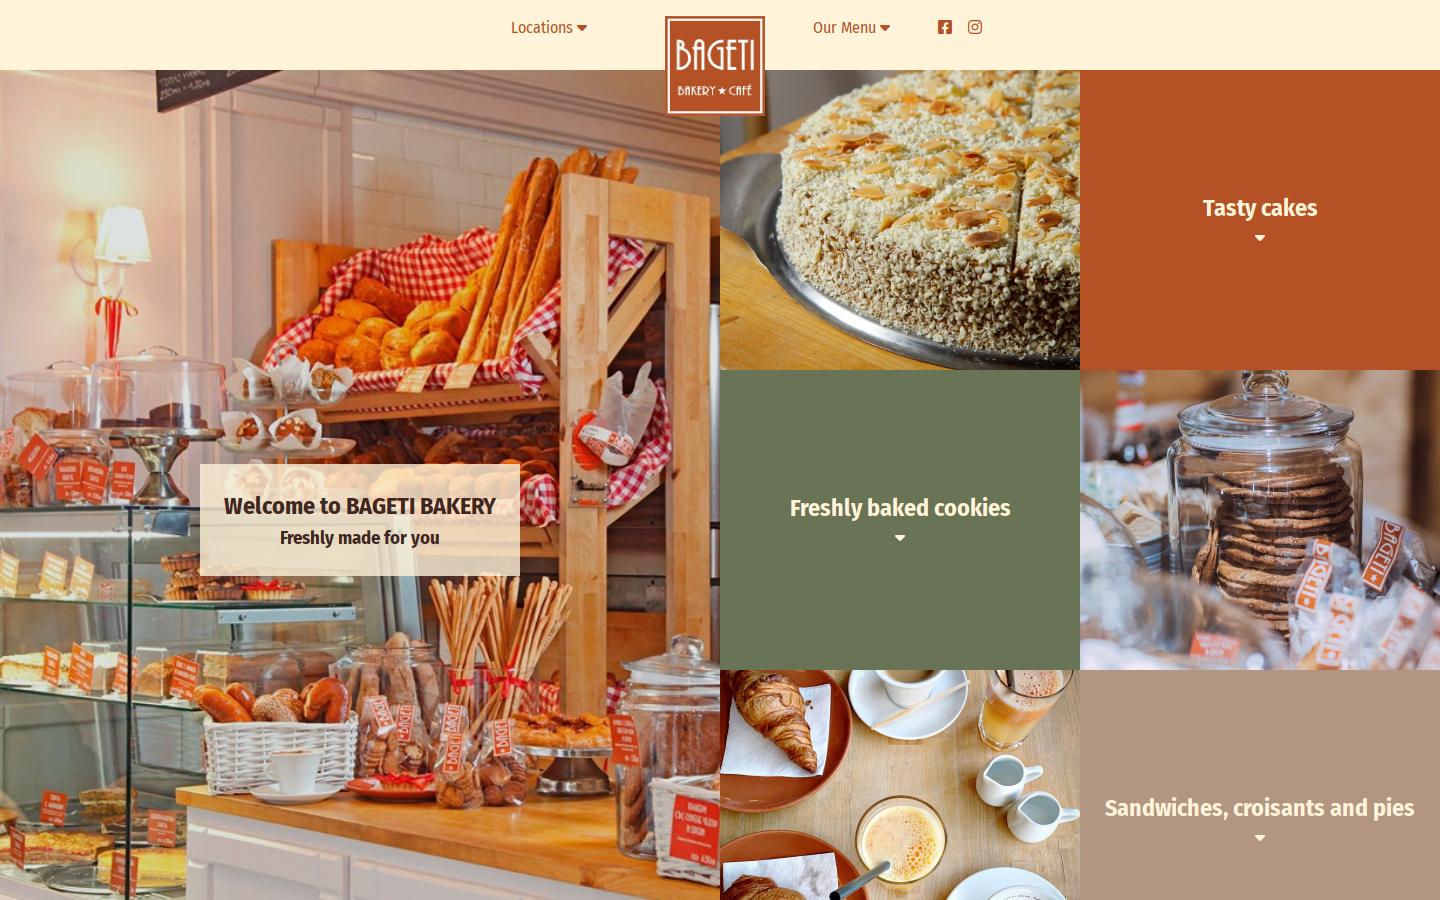
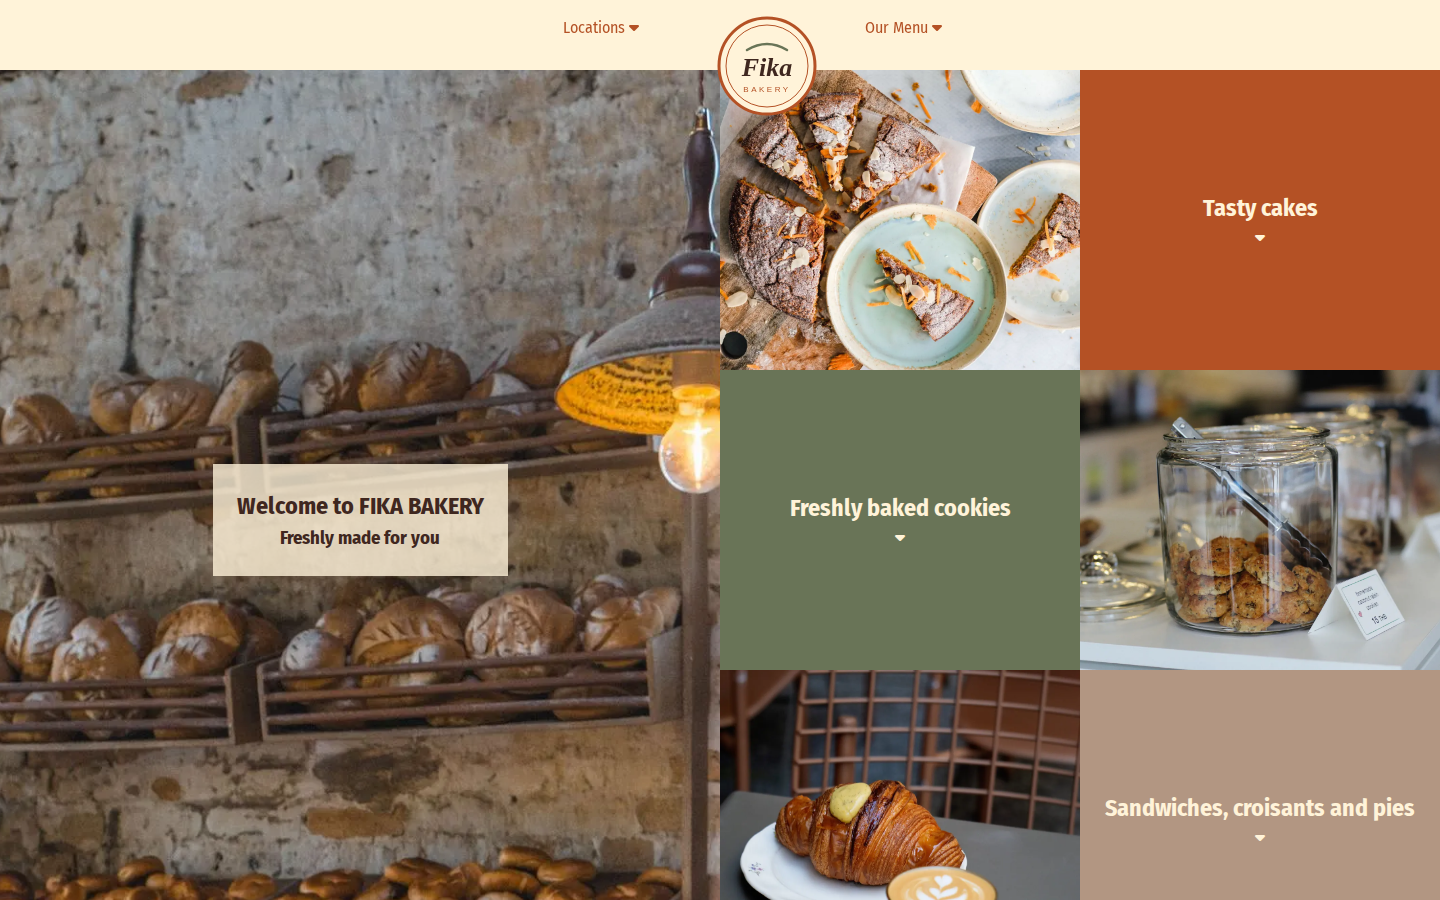
Replace bakery photos with Pexels stock photos
Swap all photos from the real bakery for free-licence Pexels photos,
resized and converted to WebP, and retake the README screenshot.

diff --git a/css/style.css b/css/style.css
@@ -88,7 +88,7 @@ header {
 
 .first {
     grid-area: first;
-    background-image: url('../images/panoramic-bageti.jpg');
+    background-image: url('../images/hero.webp');
     height: 100vh;
     background-position: center; 
   background-repeat: no-repeat; 
@@ -108,7 +108,7 @@ header {
 }
  .sandwiches-img {
     grid-area: sandwiches-img;
-    background-image: url('../images/fika.jpg');
+    background-image: url('../images/tile-croissant.webp');
     background-position: center; 
   background-repeat: no-repeat; 
   background-size: cover;
@@ -120,7 +120,7 @@ header {
 }
  .cookies-img {
     grid-area: cookies-img;
-    background-image: url('../images/cookies.jpg');
+    background-image: url('../images/tile-cookies.webp');
     background-position: center; 
   background-repeat: no-repeat; 
   background-size: cover;
@@ -132,7 +132,7 @@ header {
 }
  .cakes-img {
     grid-area: cakes-img;
-    background-image: url('../images/almond-cake.jpg');
+    background-image: url('../images/tile-cake.webp');
     background-position: center; 
   background-repeat: no-repeat; 
   background-size: cover;
@@ -140,7 +140,7 @@ header {
 
 .bread-img {
     grid-area: bread-img;
-    background-image: url('../images/small-bagets.jpg');
+    background-image: url('../images/tile-baguettes.webp');
     background-position: center; 
     background-repeat: no-repeat; 
     background-size: cover;
@@ -153,7 +153,7 @@ header {
 
 .coffee-img {
     grid-area: coffee-img;
-    background-image: url('../images/tart-coffee.jpg');
+    background-image: url('../images/tile-tart-coffee.webp');
     background-position: center; 
     background-repeat: no-repeat; 
     background-size: cover;
@@ -161,7 +161,7 @@ header {
 
 .banana-img {
     grid-area: banana-img;
-    background-image: url('../images/banana-muffins.jpg');
+    background-image: url('../images/tile-muffins.webp');
     background-position: center; 
     background-repeat: no-repeat; 
     background-size: cover;
@@ -225,26 +225,26 @@ header {
     width: 50%;
 }
 .menu-cakes-img-container {
-    background-image: url('../images/tart.jpg');
+    background-image: url('../images/menu-tarts.webp');
     background-position: center; 
     background-repeat: no-repeat; 
     background-size: cover;
 }
 
 .menu-sweet-treats-img-container {
-    background-image: url('../images/brownies.jpg');
+    background-image: url('../images/menu-brownies.webp');
     background-position: center; 
     background-repeat: no-repeat; 
     background-size: cover;
 }
 .menu-savory-treats-img-container {
-    background-image: url('../images/salmon-sandwich.jpg');
+    background-image: url('../images/menu-salmon-sandwich.webp');
     background-position: center; 
     background-repeat: no-repeat; 
     background-size: cover;
 }
 .menu-breads-img-container {
-    background-image: url('../images/bread.jpg');
+    background-image: url('../images/menu-sourdough.webp');
     background-position: center; 
     background-repeat: no-repeat; 
     background-size: cover;
@@ -292,7 +292,7 @@ header {
 }
 
 .img-old-town {
-    background-image: url('../images/bageti-skobelev.jpg');
+    background-image: url('../images/location-old-town.webp');
     width: 100%;
     height: 250px;
     background-position: center; 
@@ -300,7 +300,7 @@ header {
     background-size: cover;
 }
 .img-riverside {
-    background-image: url('../images/counter.jpg');
+    background-image: url('../images/location-riverside.webp');
     width: 100%;
     height: 250px;
     background-position: center; 
@@ -308,7 +308,7 @@ header {
     background-size: cover;
 }
 .img-garden {
-    background-image: url('../images/smirnenski.jpg');
+    background-image: url('../images/location-garden.webp');
     width: 100%;
     height: 250px;
     background-position: center; 

diff --git a/TODO.md b/TODO.md
@@ -15,10 +15,10 @@ This site was originally built for a real bakery, but the business was sold befo
 - [x] Replace the 3 real addresses and location names (NDK, Iztok, UACG) with fictional ones
 - [x] Replace the Facebook and Instagram links (header and footer) with `#` placeholders, or remove them
 - [x] Replace the real email and phone number with placeholders (e.g. `hello@example.com`)
-- [ ] Replace the real storefront photos (`bageti-skobelev.jpg`, `smirnenski.jpg`, `counter.jpg`) with free-licence stock photos (Unsplash, Pexels). The product photos (fika, cookies, tart, brownies, etc.) need replacing too: the hero and cookie photos show "BAGETI" on the packaging.
+- [x] Replace the real storefront photos (`bageti-skobelev.jpg`, `smirnenski.jpg`, `counter.jpg`) with free-licence stock photos (Unsplash, Pexels). The product photos (fika, cookies, tart, brownies, etc.) need replacing too: the hero and cookie photos show "BAGETI" on the packaging.
 - [x] Add a small "Demo project, not a real shop" note in the footer
 - [x] Update `<title>`, headings and README with the new name
-- [ ] Retake the README screenshot (after the photos are replaced)
+- [x] Retake the README screenshot (after the photos are replaced)
 - [ ] Rename the GitHub repo (GitHub redirects the old repo URL), then update the links in the profile README and `README.md`. The old Pages URL (`github.io/bageti/`) probably won't redirect, so update every link to it at the same time.
 - [ ] **Git history:** the real logo, email, phone and photos stay in earlier commits even after they're replaced. If that matters, start a fresh repo (or squash history) once this phase is done, rather than renaming.
 - [x] Delete the 14 unused images: `capuchino.jpg`, `christma-counter.jpg`, `christmas-tea.jpg`, `cinnamon-bun.jpg`, `finansie.jpg`, `ginger-hearts.jpg`, `ginger-men.jpg`, `hot-chocolate.jpg`, `kozunak.jpg`, `kozunak-2.jpg`, `logi.jpg`, `luxa.org-opacity-changed-panoramic-bageti.jpg`, `pavlova.jpg`, `small-cookies.jpg`

diff --git a/README.md b/README.md
@@ -21,6 +21,7 @@ A demo website for Fika, a fictional bakery and café. It's built with plain, ha
 - **Google Fonts** (Raleway, Fira Sans Condensed, Kalam, Indie Flower)
 - **Font Awesome** icons
 - Hosted on **GitHub Pages**
+- Photos from [Pexels](https://www.pexels.com), resized and converted to WebP
 
 ## Run locally
 
